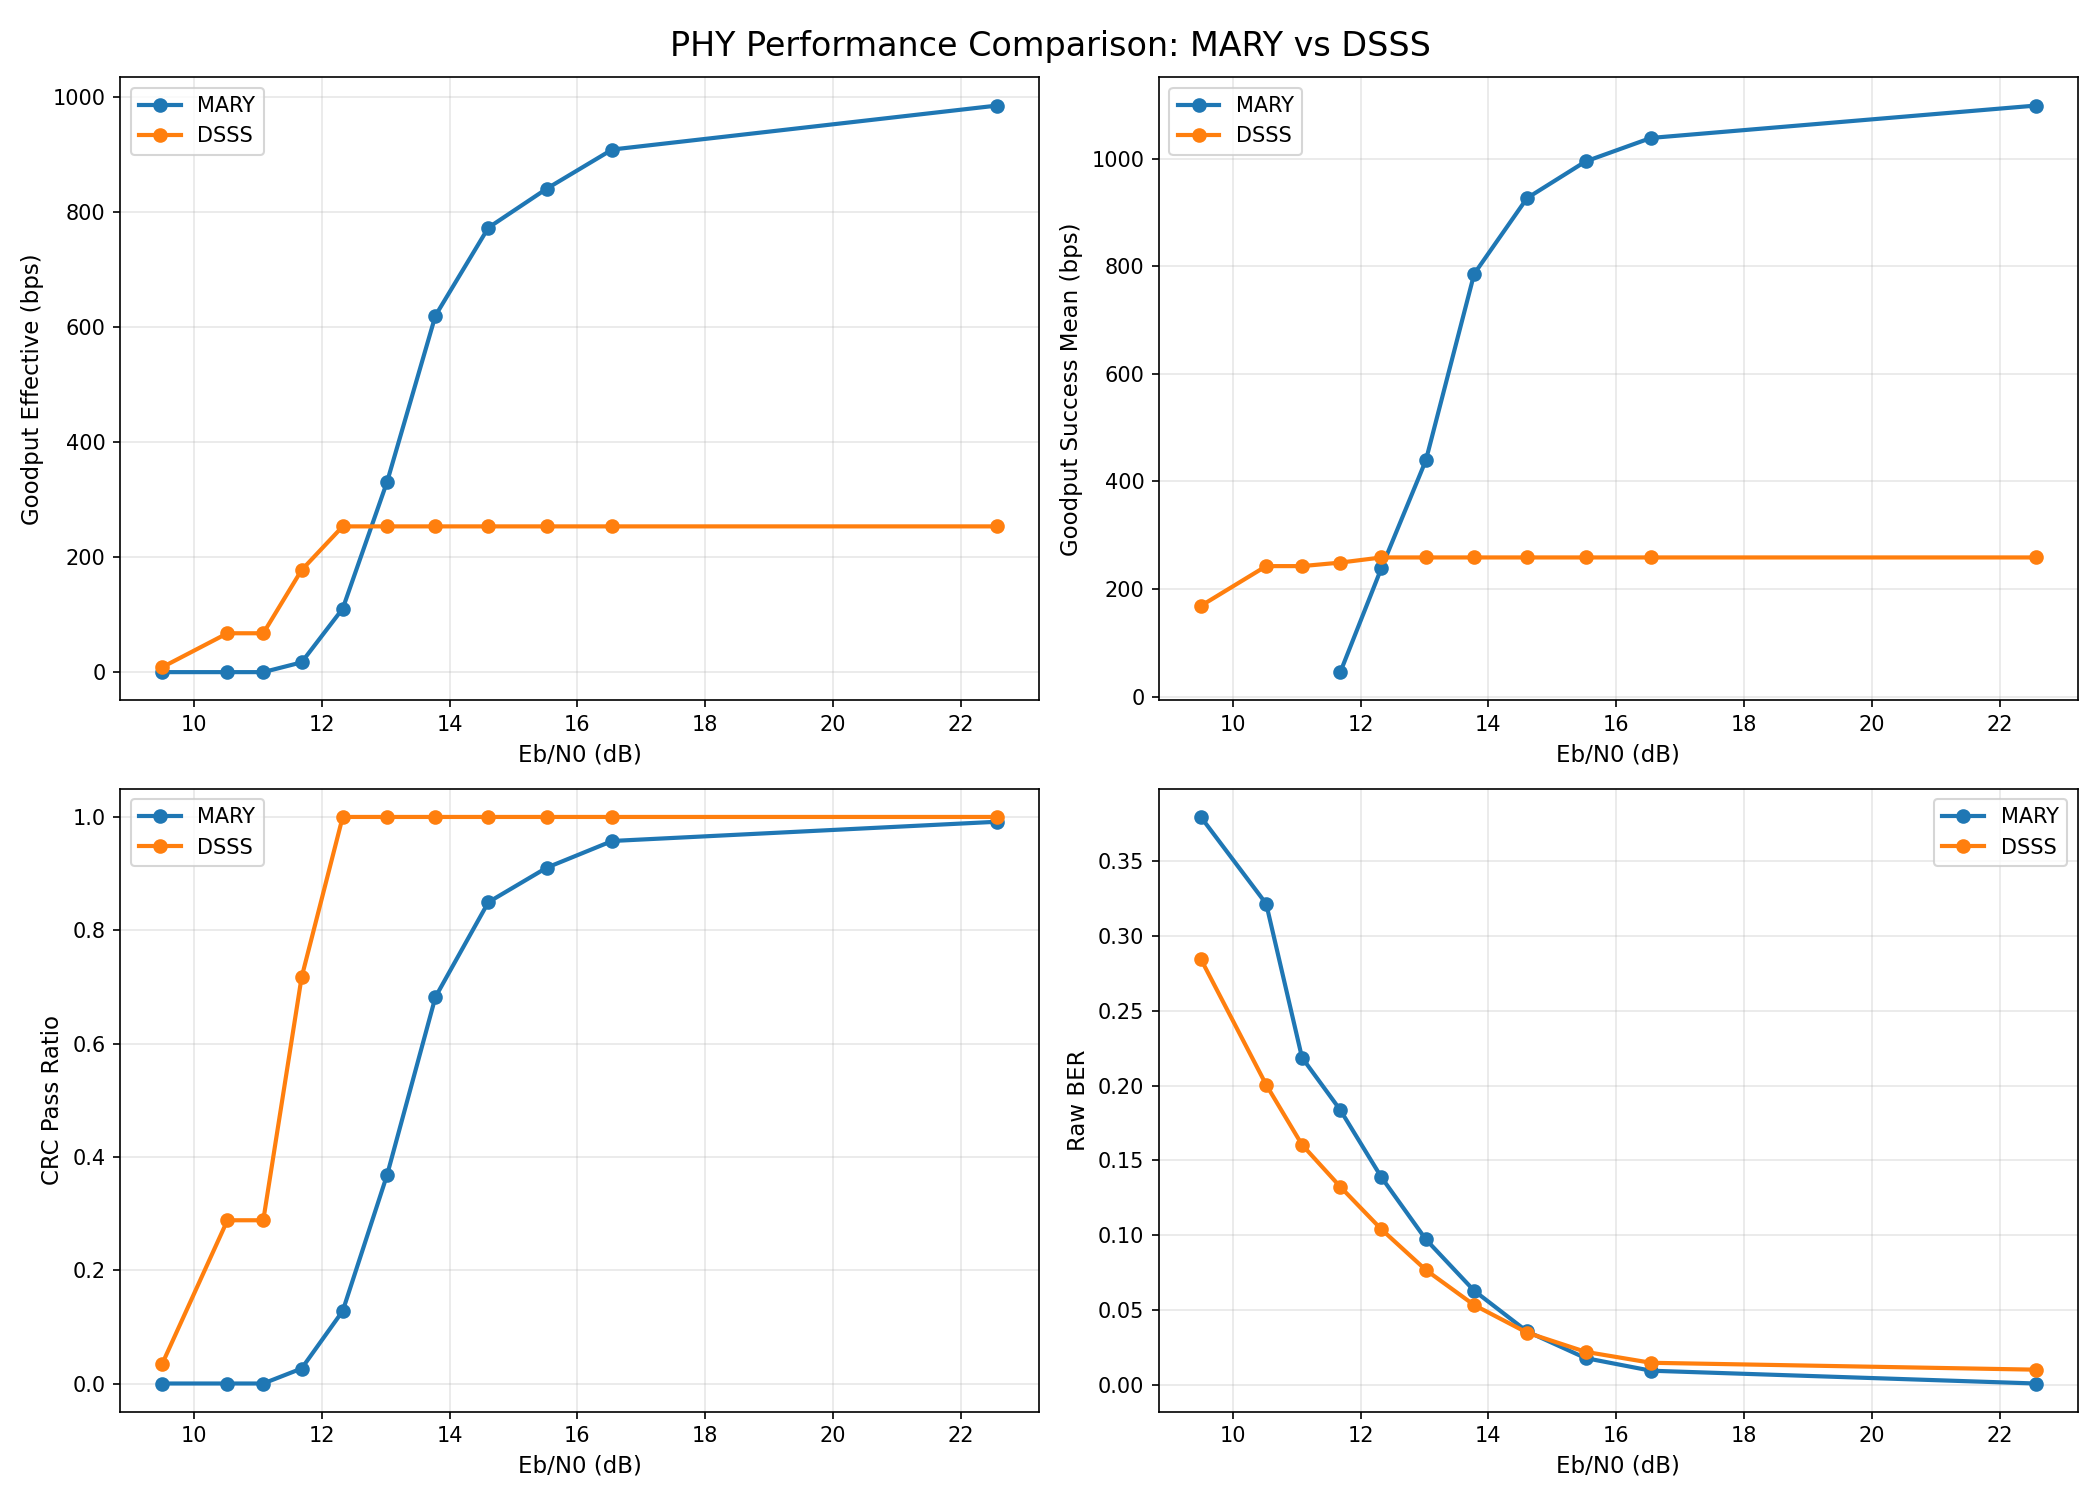
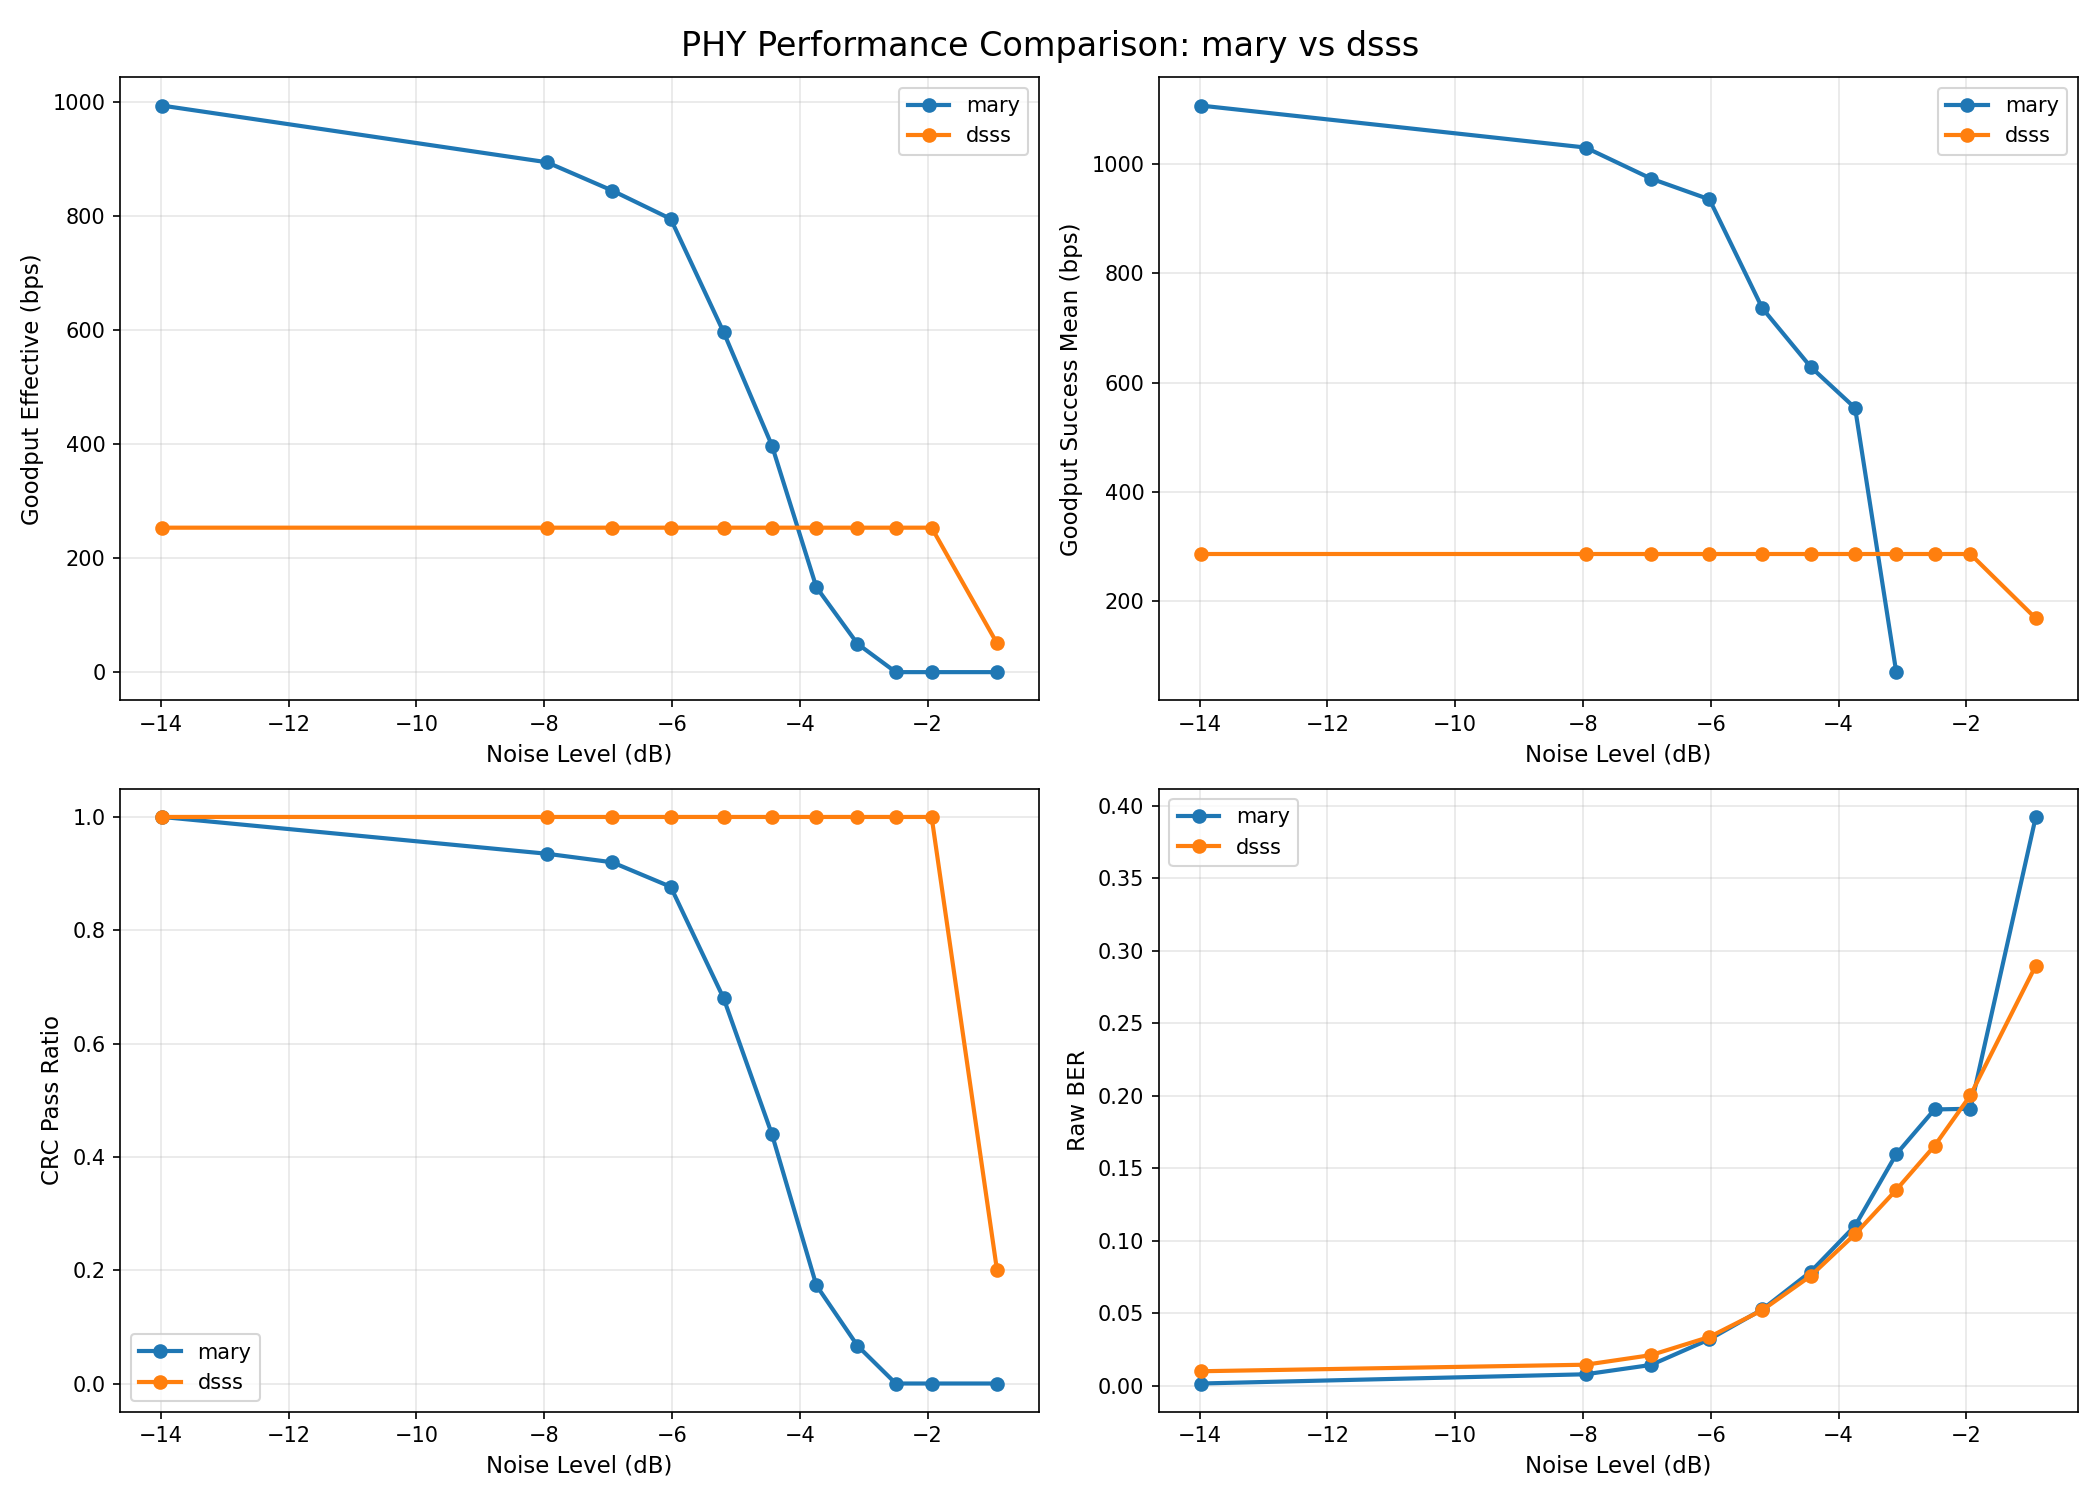
aaa

diff --git a/scripts/phy_eval/plot_comparison.py b/scripts/phy_eval/plot_comparison.py
@@ -5,18 +5,40 @@ import matplotlib.pyplot as plt
 import sys
 import os
 import re
+import math
 
-def run_eval(phy):
-    """指定された PHY で評価を実行し、JSON 結果を返す"""
+def run_eval(phy, packets_per_frame="3", sweep_awgn="0.2,0.40,0.45,0.50,0.55,0.60,0.65,0.70,0.75,0.8,0.9",
+             columns="scenario,crc_pass_ratio,goodput_effective_bps,goodput_success_mean_bps,ebn0_db,raw_ber",
+             mode="sweep-awgn", **extra_args):
+    """指定された PHY で評価を実行し、JSON 結果を返す
+
+    Args:
+        phy: PHY の種類 (mary または dsss)
+        packets_per_frame: フレームあたりのパケット数
+        sweep_awgn: AWGN のスイープ範囲 (カンマ区切り)
+        columns: 出力するカラム (カンマ区切り)
+        mode: 評価モード
+        **extra_args: その他のコマンドライン引数 (例: --some-flag, --key=value)
+    """
     cmd = [
         "cargo", "run", "--release", "--bin", "dsss_e2e_eval", "--",
         "--phy", phy,
-        "--mode", "sweep-awgn",
-        "--packets-per-frame", "3",
-        "--sweep-awgn", "0.2,0.40,0.45,0.50,0.55,0.60,0.65,0.70,0.75,0.8,0.9",
-        "--columns", "scenario,crc_pass_ratio,goodput_effective_bps,goodput_success_mean_bps,ebn0_db,raw_ber",
+        "--mode", mode,
+        "--packets-per-frame", str(packets_per_frame),
+        "--sweep-awgn", str(sweep_awgn),
+        "--columns", str(columns),
+        "--total-sim-sec", "10",
         "--output", "json"
     ]
+
+    # 追加の引数をコマンドに追加
+    for key, value in extra_args.items():
+        # key が -- で始まらない場合は追加
+        arg_name = key if key.startswith('--') else f'--{key}'
+        cmd.append(arg_name)
+        # value が True/False/None でない場合は値を文字列として追加
+        if value is not True and value is not False and value is not None:
+            cmd.append(str(value))
 
     print(f"Running eval for {phy}...", file=sys.stderr)
     result = subprocess.run(cmd, cwd="dsp", capture_output=True, text=True)
@@ -41,18 +63,60 @@ def run_eval(phy):
     return data_points
 
 def main():
-    # mary と dsss を実行
-    results = {}
-    for phy in ["mary", "dsss"]:
-        results[phy] = run_eval(phy)
-        if results[phy] is None:
-            print(f"Failed to get results for {phy}", file=sys.stderr)
+    # 実行するケースの設定
+    # コマンドライン引数で JSON ファイルを指定することも可能
+    cases = [
+        {
+            "name": "mary",
+            "phy": "mary",
+            "args": {}
+        },
+        {
+            "name": "dsss",
+            "phy": "dsss",
+            "args": {}
+        }
+    ]
+
+    # コマンドライン引数で JSON ファイルが指定されている場合は読み込む
+    if len(sys.argv) > 1:
+        config_file = sys.argv[1]
+        try:
+            with open(config_file, 'r') as f:
+                cases = json.load(f)
+            print(f"Loaded {len(cases)} cases from {config_file}", file=sys.stderr)
+        except Exception as e:
+            print(f"Failed to load config file: {e}", file=sys.stderr)
             return 1
-        print(f"Got {len(results[phy])} data points for {phy}", file=sys.stderr)
+
+    # 各ケースを実行
+    results = {}
+    for case in cases:
+        name = case.get("name", case.get("phy", "unknown"))
+        phy = case.get("phy")
+        args = case.get("args", {})
+
+        if not phy:
+            print(f"Case {name} missing 'phy' field", file=sys.stderr)
+            return 1
+
+        print(f"Running case '{name}' with phy={phy}...", file=sys.stderr)
+        if args:
+            print(f"  Additional args: {args}", file=sys.stderr)
+
+        result = run_eval(phy, **args)
+        if result is None:
+            print(f"Failed to get results for {name}", file=sys.stderr)
+            return 1
+
+        results[name] = result
+        print(f"Got {len(result)} data points for {name}", file=sys.stderr)
 
     # グラフ描画（2x2サブプロット）
     fig, axes = plt.subplots(2, 2, figsize=(14, 10))
-    fig.suptitle('PHY Performance Comparison: MARY vs DSSS', fontsize=16)
+    case_names = list(results.keys())
+    title_suffix = ' vs '.join(case_names) if len(case_names) <= 3 else f'{len(case_names)} Cases'
+    fig.suptitle(f'PHY Performance Comparison: {title_suffix}', fontsize=16)
 
     # 各サブプロットの設定
     metrics = [
@@ -62,54 +126,58 @@ def main():
         ('raw_ber', 'Raw BER', axes[1, 1]),
     ]
 
+    # 全データから sigma の最小値・最大値を取得
+    all_sigma_values = []
+    for case_name in case_names:
+        for point in results[case_name]:
+            scenario = point.get('scenario', '')
+            match = re.search(r'sigma=([\d.]+)', scenario)
+            if match:
+                sigma = float(match.group(1))
+                all_sigma_values.append(sigma)
+
+    if all_sigma_values:
+        sigma_min = min(all_sigma_values)
+        sigma_max = max(all_sigma_values)
+        # dB に変換（ノイズが多いほど dB が大きい）
+        db_min = 20 * math.log10(sigma_min)
+        db_max = 20 * math.log10(sigma_max)
+        # 少し余裕を持たせる
+        db_margin = (db_max - db_min) * 0.05
+        db_min -= db_margin
+        db_max += db_margin
+    else:
+        db_min, db_max = -20, 0
+
     for metric, ylabel, ax in metrics:
-        # scenario でマッチングさせるため、まず sigma -> 各PHYのメトリクス のマッピングを作成
-        sigma_to_mary = {}
-        sigma_to_dsss = {}
+        # 各ケースのデータを収集
+        case_data = {}
+        for case_name in case_names:
+            data_points = []
+            for point in results[case_name]:
+                scenario = point.get('scenario', '')
+                match = re.search(r'sigma=([\d.]+)', scenario)
+                if match:
+                    sigma = float(match.group(1))
+                    # dB に変換（ノイズが多いほど dB が大きい）
+                    db = 20 * math.log10(sigma)
+                    metric_val = point.get(metric, 0)
+                    data_points.append((db, metric_val))
 
-        for point in results["mary"]:
-            scenario = point.get('scenario', '')
-            match = re.search(r'sigma=([\d.]+)', scenario)
-            if match:
-                sigma = float(match.group(1))
-                ebn0_db = point.get('ebn0_db')
-                if ebn0_db is not None:
-                    sigma_to_mary[sigma] = (ebn0_db, point.get(metric, 0))
+            # dB でソート
+            data_points.sort()
+            if data_points:
+                x_vals, y_vals = zip(*data_points)
+                case_data[case_name] = (x_vals, y_vals)
 
-        for point in results["dsss"]:
-            scenario = point.get('scenario', '')
-            match = re.search(r'sigma=([\d.]+)', scenario)
-            if match:
-                sigma = float(match.group(1))
-                ebn0_db = point.get('ebn0_db')
-                if ebn0_db is not None:
-                    sigma_to_dsss[sigma] = (ebn0_db, point.get(metric, 0))
+        # プロット（複数ケースに対応）
+        colors = plt.cm.tab10.colors  # 10色のカラーパレット
+        for i, (case_name, (x_vals, y_vals)) in enumerate(case_data.items()):
+            color = colors[i % len(colors)]
+            ax.plot(x_vals, y_vals, marker='o', label=case_name, linewidth=2, markersize=6, color=color)
 
-        # 共通の sigma 値でデータをプロット
-        common_sigmas = sorted(set(sigma_to_mary.keys()) & set(sigma_to_dsss.keys()))
-
-        x_vals = []  # 共通のx軸
-        mary_y_vals = []
-        dsss_y_vals = []
-
-        for sigma in common_sigmas:
-            mary_ebn0, mary_val = sigma_to_mary[sigma]
-            dsss_ebn0, dsss_val = sigma_to_dsss[sigma]
-
-            # 同じscenarioなのでEb/N0は同じはず。MARYのを共通のx軸として使う
-            x_vals.append(mary_ebn0)
-            mary_y_vals.append(mary_val)
-            dsss_y_vals.append(dsss_val)
-
-        # ソート
-        sorted_data = sorted(zip(x_vals, mary_y_vals, dsss_y_vals))
-        x_sorted, mary_y_sorted, dsss_y_sorted = zip(*sorted_data)
-
-        # プロット
-        ax.plot(x_sorted, mary_y_sorted, marker='o', label='MARY', linewidth=2, markersize=6)
-        ax.plot(x_sorted, dsss_y_sorted, marker='o', label='DSSS', linewidth=2, markersize=6)
-
-        ax.set_xlabel('Eb/N0 (dB)', fontsize=11)
+        ax.set_xlim(db_min, db_max)
+        ax.set_xlabel('Noise Level (dB)', fontsize=11)
         ax.set_ylabel(ylabel, fontsize=11)
         ax.grid(True, alpha=0.3)
         ax.legend(fontsize=10)
